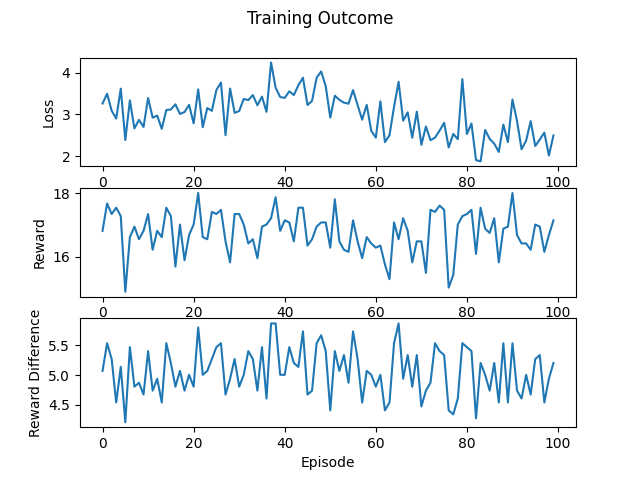
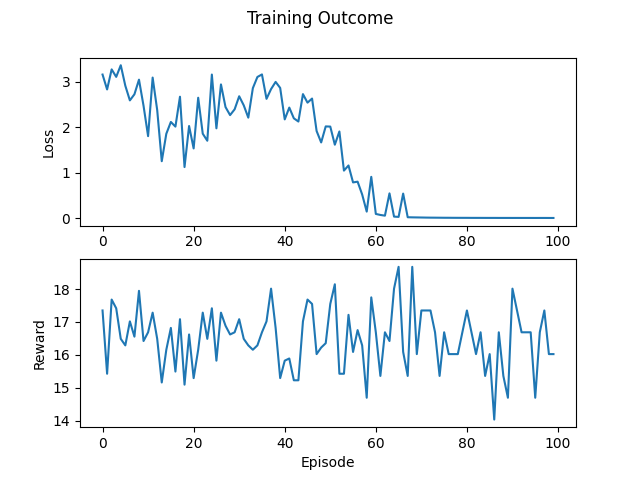
Added heatmap generation for the binary neural network

diff --git a/src/plot.py b/src/plot.py
@@ -1,4 +1,5 @@
 import torch
+from src.models.binary_ff import BinaryFeedForwardPolicyNetwork
 from src.models.lstm import LSTMPolicyNetwork
 from src.train import TrainingOutcome
 from torch import nn
@@ -12,51 +13,63 @@ from sklearn.manifold import TSNE
 def plot_data(training_outcome: TrainingOutcome, model: nn.Module):
     import matplotlib.pyplot as plt
     
+    plot_loss_reward(training_outcome)
+    
+    ave_accuracies = training_outcome.episode_accuracy.mean(dim=1)
+    plot_ave_accuracies(ave_accuracies)
+
+    last_episode = training_outcome.episode_accuracy[-1]
+    plot_last_episode_accuracy(last_episode)
+    
+    if isinstance(model, LSTMPolicyNetwork):
+        hidden_states = training_outcome.hidden_state_samples
+        
+        # Enhanced Plots
+        plot_hidden_state_evolution(hidden_states)
+        plot_hidden_state_correlation(hidden_states[0, :, 0, -1, :], output_file='hidden_state_correlation_first_episode.png')
+        plot_hidden_state_correlation(hidden_states[-1, :, 0, -1, :], output_file='hidden_state_correlation_last_episode.png')
+
+        hidden_state = hidden_states[0, -1, 0, -1, :]  # First episode, last time step, first batch, last layer
+        #plot_hidden_state_pca(hidden_state)
+        #plot_hidden_state_tsne(hidden_state)
+    
+    if isinstance(model, BinaryFeedForwardPolicyNetwork):
+        
+        # Generate plot showing edge weights
+        edge_weights = model.layers[0].weight.detach().numpy()
+        plt.figure(figsize=(8, 6))
+        sns.heatmap(edge_weights, cmap='viridis', cbar=True)
+        plt.title('Edge Weights of the First Layer')
+        plt.xlabel('Input Dimensions')
+        plt.ylabel('Hidden Dimensions')
+        plt.savefig('artifacts/plots/edge_weights.png')
+
+
+def plot_loss_reward(training_outcome):
     # Split into multiple plots
-    fig, axs = plt.subplots(3)
+    fig, axs = plt.subplots(2)
     fig.suptitle('Training Outcome')
     axs[0].plot(training_outcome.episode_losses, label='Loss')
     axs[0].set(ylabel='Loss')
     axs[1].plot(training_outcome.episode_rewards, label='Reward')
     axs[1].set(xlabel='Episode', ylabel='Reward')
-    axs[2].plot(training_outcome.episode_reward_differences, label='Reward Difference')
-    axs[2].set(xlabel='Episode', ylabel='Reward Difference')
     plt.savefig('artifacts/plots/training_outcome.png')
-    
-    # Plot average accuracies [Episode x Step]
-    # 1. Calculate the average accuracy for each episode
-    # 2. Plot the accuracy progression over the first and final episode
-    
-    ave_accuracies = torch.mean(training_outcome.episode_accuracy, dim=1)
+
+def plot_ave_accuracies(ave_accuracies):
     plt.figure(figsize=(12, 6))
     plt.plot(ave_accuracies)
     plt.title('Average Accuracy Over Episodes')
     plt.xlabel('Episode')
     plt.ylabel('Average Accuracy')
     plt.savefig('artifacts/plots/average_accuracy.png')
-    
-    last_episode = training_outcome.episode_accuracy[-1, :]
+
+def plot_last_episode_accuracy(last_episode):
     plt.figure(figsize=(12, 6))
     plt.plot(last_episode)
     plt.title('Accuracy in the Last Episode')
     plt.xlabel('Time Steps')
     plt.ylabel('Accuracy')
     plt.savefig('artifacts/plots/last_episode_accuracy.png')
-    
-    # Sample usage:
-    if isinstance(model, LSTMPolicyNetwork):
-        hidden_states = training_outcome.hidden_state_samples
-        
-        hidden_state = hidden_states[0, -1, 0, -1, :]  # First episode, last time step, first batch, last layer
-        
-        # Enhanced Plots
-        plot_hidden_state_evolution(hidden_states)
-
-        plot_hidden_state_correlation(hidden_states[0, :, 0, -1, :], output_file='hidden_state_correlation_first_episode.png')
-        plot_hidden_state_correlation(hidden_states[-1, :, 0, -1, :], output_file='hidden_state_correlation_last_episode.png')
-        
-        #plot_hidden_state_pca(hidden_state)
-        #plot_hidden_state_tsne(hidden_state)
 
 def plot_hidden_state_evolution(hidden_states):
     # hidden_states shape: (episode, timestep, batch, layer, hidden_dim)
